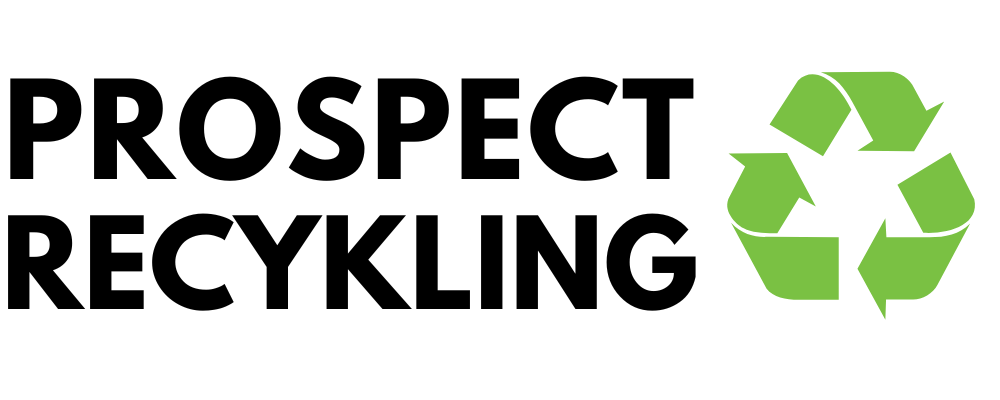
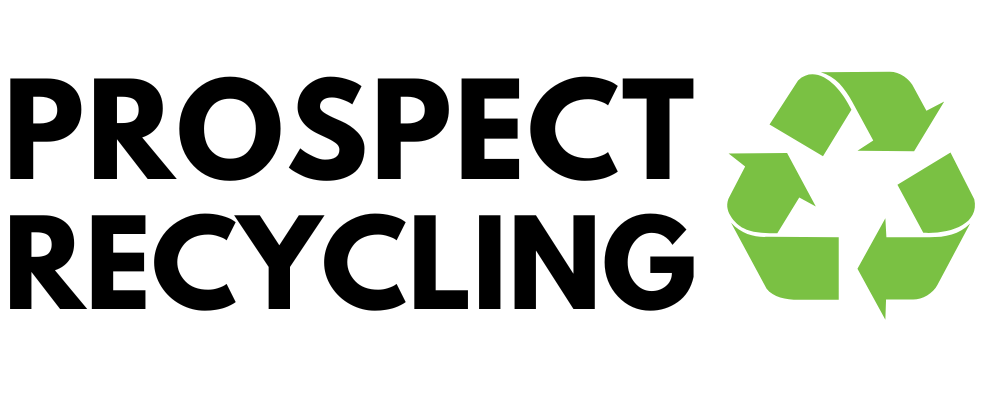
Fixes: Fixed company name (xd)

diff --git a/index.html b/index.html
@@ -11,7 +11,7 @@
     <meta name="viewport"
     content="width=device-width, user-scalable=no, initial-scale=1.0, maximum-scale=1.0, minimum-scale=1.0">
     <meta http-equiv="X-UA-Compatible" content="ie=chrome">
-    <title>Prospekt Recykling Lipno</title>
+    <title>Prospekt Recycling Lipno</title>
     <script src="src/functions/stickyMenu.js"></script>
 </head>
 <body>
@@ -56,7 +56,7 @@
 </div>
 <div id="content-main-2">
     <h2 class="content-header transparent-background">
-        Dlaczego warto wybrać Prospect Recykling?
+        Dlaczego warto wybrać Prospect Recycling?
     </h2>
     <ul class="transparent-background" id="content-main-2-ul">
         <li class="transparent-background">
@@ -116,7 +116,7 @@
 <div id="footer">
     <iframe src="https://www.google.com/maps/embed?pb=!1m18!1m12!1m3!1d2460.7977504407777!2d16.568495!3d51.919401!2m3!1f0!2f0!3f0!3m2!1i1024!2i768!4f13.1!3m3!1m2!1s0x4705bdb9257fe197%3A0xa5a48a392fce5806!2sSkup%20Z%C5%82omu%20-%20Prospect%20Recycling!5e0!3m2!1spl!2spl!4v1728930657642!5m2!1spl!2spl" width="100%" height="450" style="border:0;" allowfullscreen="" loading="lazy" referrerpolicy="no-referrer-when-downgrade" id="prospect-map"></iframe>
     <div id="contact">
-        <img id="contact-image" src="/src/images/PROSPECT%20RECYKLING.png" alt="prospect recykling"><br>
+        <img id="contact-image" src="/src/images/PROSPECT%20RECYKLING.png" alt="prospect recycling"><br>
         Spółdzielcza 4a, 64-111 Lipno<br>
         <a class="contact-href" href="mailto:biuro.skupzlomu@gmail.com">biuro.skupzlomu@gmail.com</a><br>
         <a class="contact-href" href="tel: 0048 665509068">+48 665509068</a><br>

diff --git a/src/functions/stickyMenu.js b/src/functions/stickyMenu.js
@@ -16,7 +16,7 @@ window.onscroll = function() {
     } else if (window.scrollY === sticky) {
         menu.innerHTML = `<header id="main-header">
     <div>
-        <h1>Prospect Recykling</h1>
+        <h1>Prospect Recycling</h1>
         <p>SKUP ZŁOMU I METALI KOLOROWYCH</p>
     </div>
     <div id="main-header-right" onclick="location.href = 'https://maps.app.goo.gl/pZrEcrVfdxGKKzRv7'">
